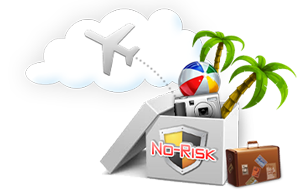
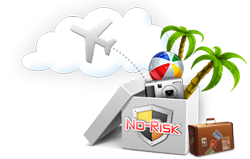
WHTLBL

diff --git a/web/css/whitelabel/biddingowl.css b/web/css/whitelabel/biddingowl.css
@@ -70,11 +70,12 @@ header .nav li a:hover {
 
 .learn-more .c-wrap {
 	background: url(/img/whitelabel/biddingowl/experience-catalog-banner-sm-more.png) no-repeat;
-	background-position:right;
+	background-position:right top;
+	height:200px;
 }
 
 .learn-more .c-wrap p {
-	width:400px;
+	width:450px;
 }
 
 

diff --git a/web/css/less/whitelabel.less b/web/css/less/whitelabel.less
@@ -85,6 +85,7 @@ footer .c-wrap {
     h1 {
         font-size: 3.000em;
         line-height: 1em;
+        letter-spacing: -1px;
         color: @ws-darkblue;
     }
     h3 {
